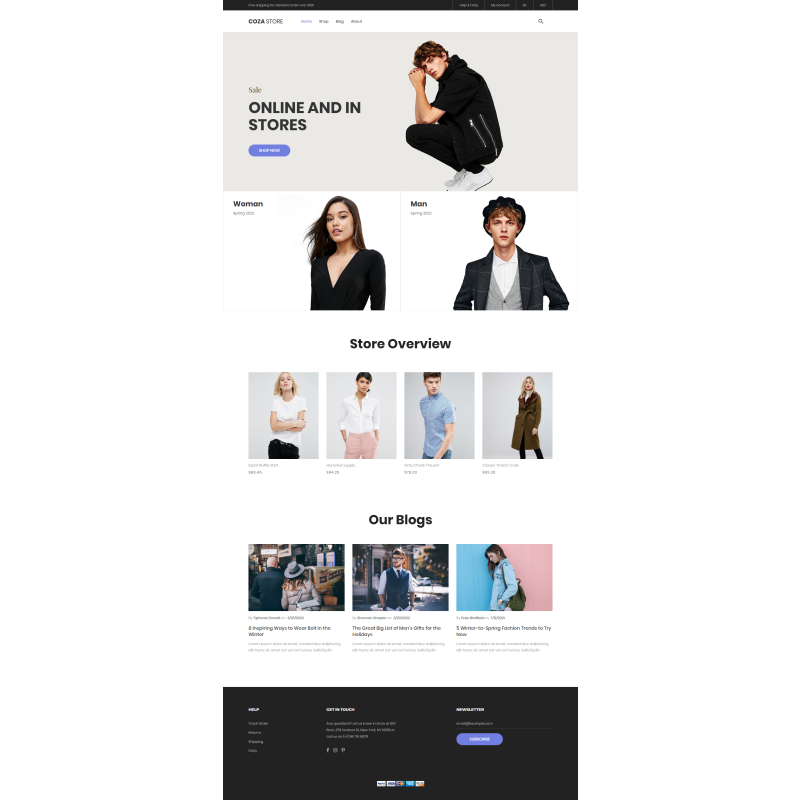
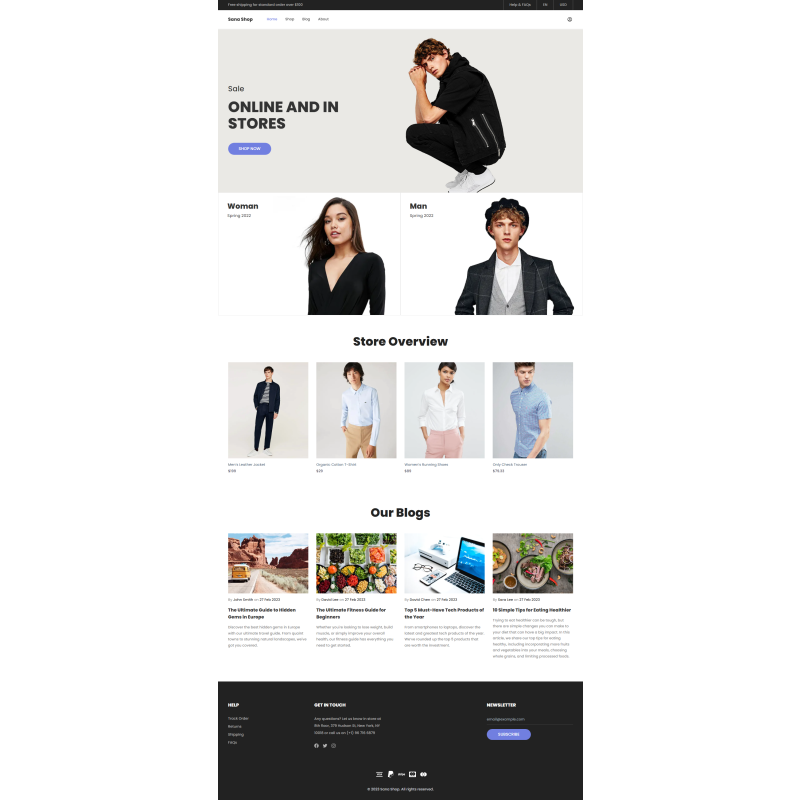
add new project

diff --git a/index.html b/index.html
@@ -499,6 +499,30 @@
                         </div>
                     </div>
 
+
+                    <!-- =========  Portfolio 04  ========== -->
+                    <div class="portfolio_content grid swiper-slide">
+                        <img src="./assets/img/store/1.png" alt="portfolio image" class="portfolio_img">
+                        <div class="portfolio_data">
+                            <h3 class="portfolio_title">Sana Shop</h3>
+                            <div class="portfolio_difficulty">
+                                <span>Difficulty:</span>
+                                <span class="hard">Hard</span>
+                            </div>
+                            <p class="portfolio_description">
+                                Sana-Shop is an e-commerce website built using Next.js with TypeScript, Tailwind, Mongoose, and other libraries. The website is designed to provide a seamless shopping experience to users, enabling them to browse a wide range of products and filter them, add them to their cart, and make payments once logged in, also they can read some blogs related to shopping.
+ 
+                                The admin panel of Sana-Shop allows the admin to manage all content on the website, he can add, edit, and delete products and user accounts using the CRUD operations. They can also view and manage orders, and blogs, and update order statuses.
+                            </p>
+                            <a href="https://sana-shop.vercel.app/" target="_blank"
+                                class=" button button-flex button-small portfolio_button">
+                                Demo
+                                <i class="uil uil-arrow-right butotn_icon"></i>
+                            </a>
+                        </div>
+                    </div>
+
+
                 <!-- Medium  -->
 
                     <!-- =========  Portfolio 02  ========== -->
@@ -537,25 +561,6 @@
                         </div>
                     </div>
 
-
-
-                    <!-- =========  Portfolio 04  ========== -->
-                    <div class="portfolio_content grid swiper-slide">
-                        <img src="./assets/img/store/1.png" alt="portfolio image" class="portfolio_img">
-                        <div class="portfolio_data">
-                            <h3 class="portfolio_title">Store</h3>
-                            <div class="portfolio_difficulty">
-                                <span>Difficulty:</span>
-                                <span class="medium">Medium</span>
-                            </div>
-                            <p class="portfolio_description">Store, is a NextJs store displaying products and blogs.</p>
-                            <a href="https://store-sigma-three.vercel.app/" target="_blank"
-                                class=" button button-flex button-small portfolio_button">
-                                Demo
-                                <i class="uil uil-arrow-right butotn_icon"></i>
-                            </a>
-                        </div>
-                    </div>
 
                 <!-- Easy -->
 
